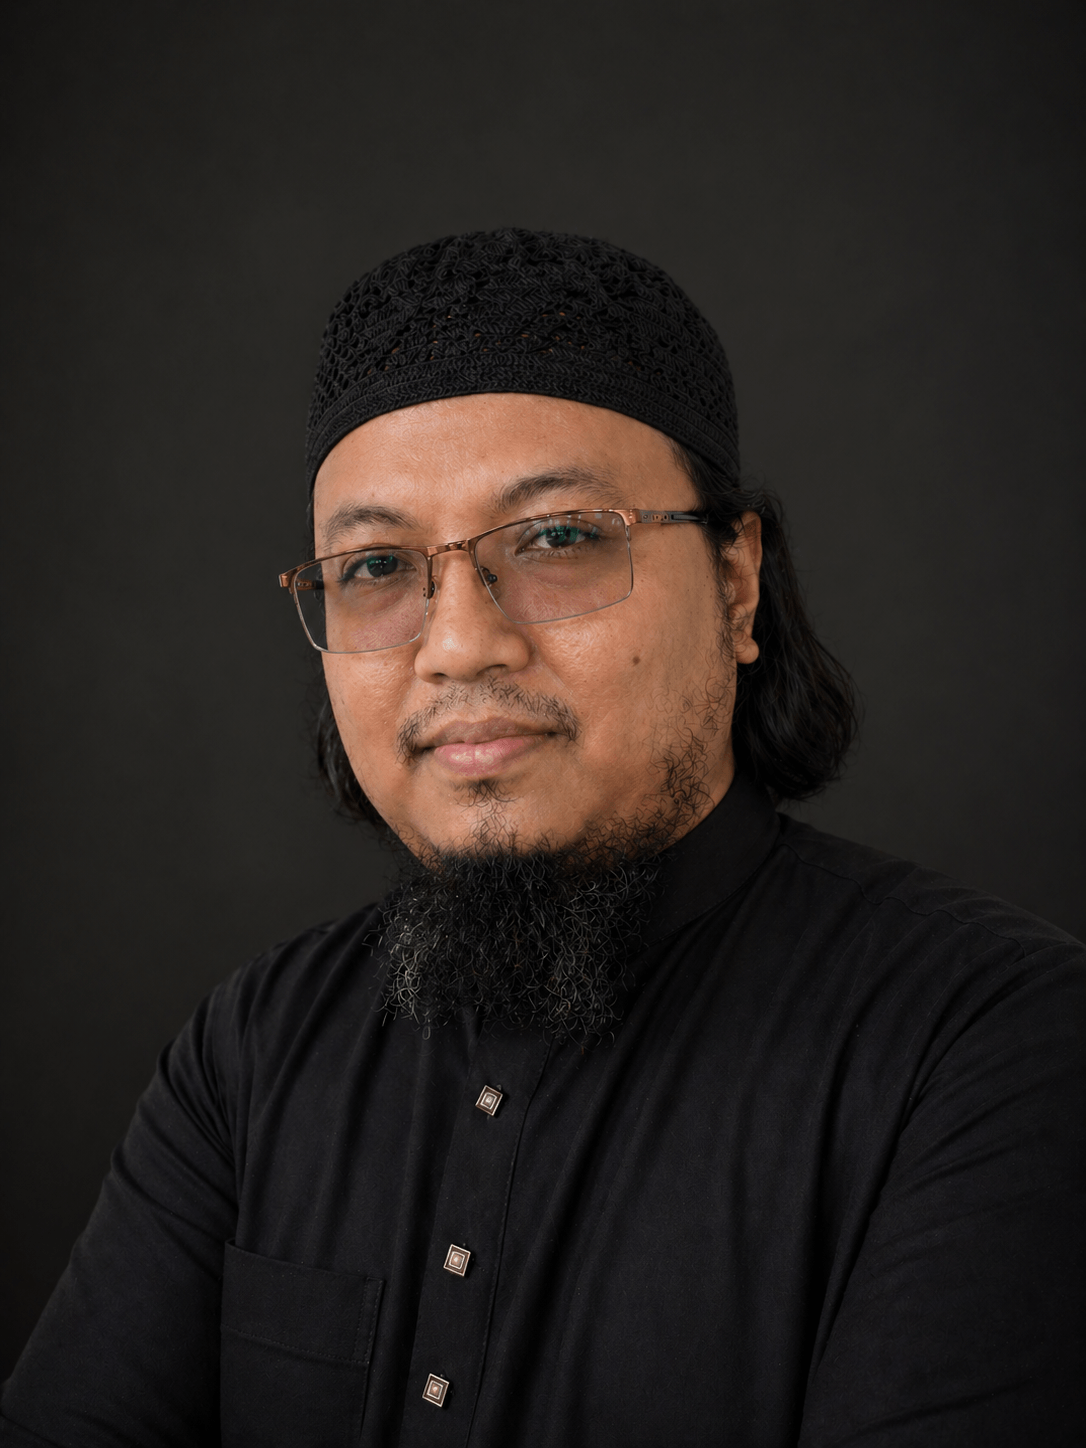
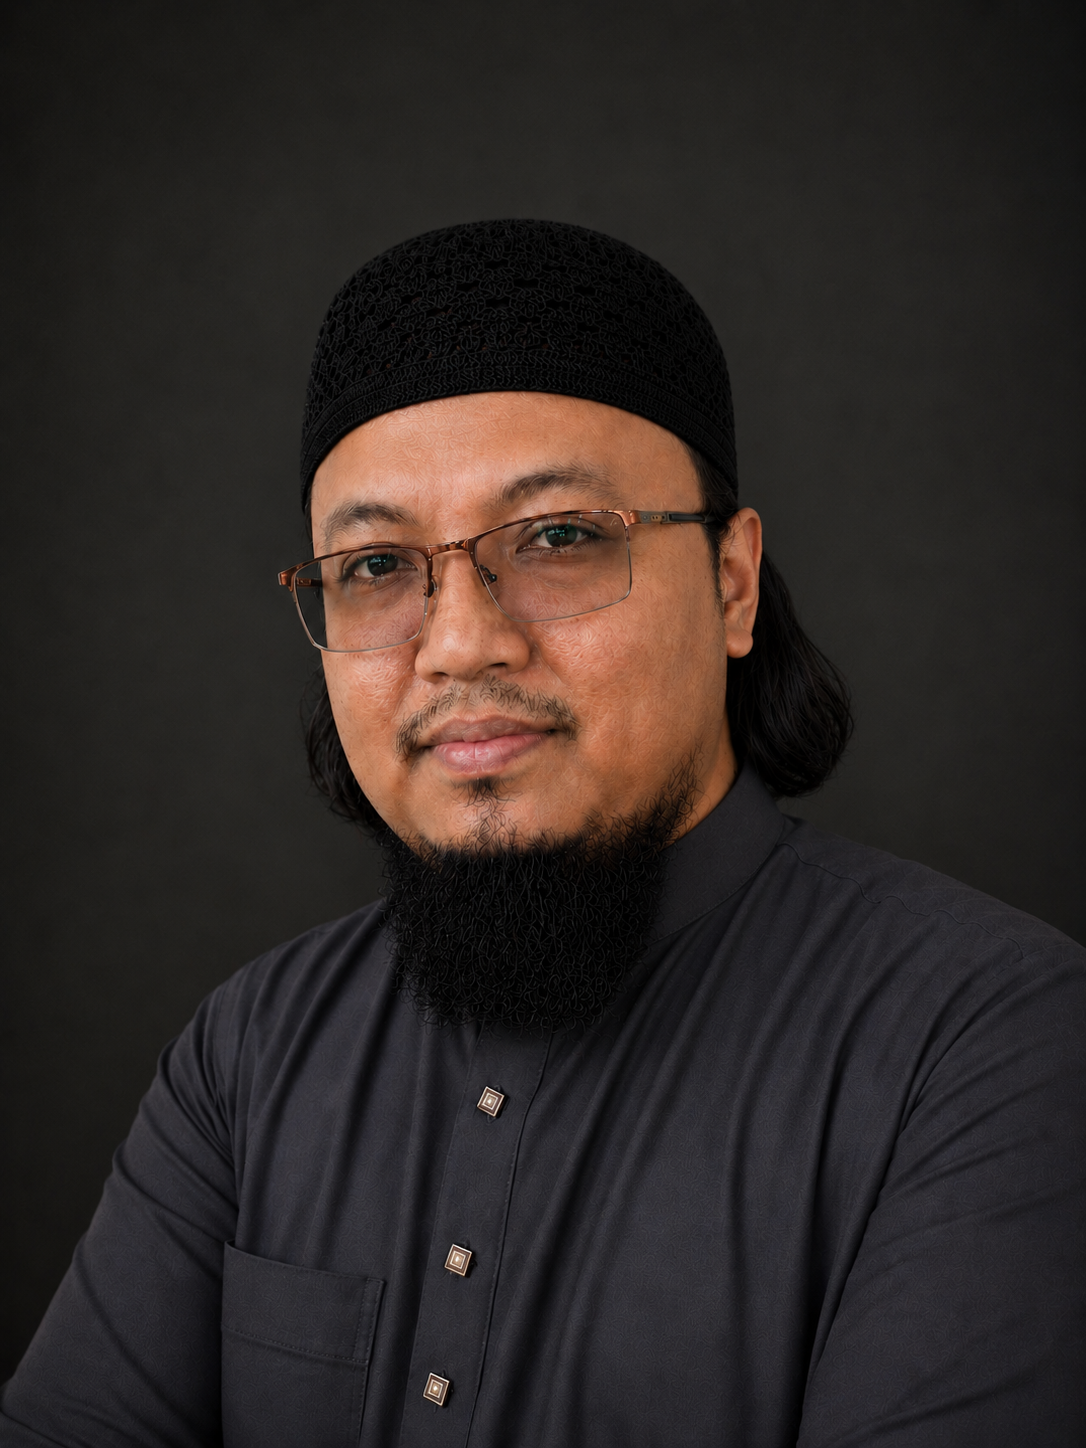
my image updated

Changed region(s): [[0.0, 0.2797, 1.0, 1.0], [0.2431, 0.1554, 0.5773, 0.4351], [0.2735, 0.4972, 0.3343, 0.5594]]

diff --git a/src/app/page.tsx b/src/app/page.tsx
@@ -1,5 +1,4 @@
 import Footer from "@/components/layout/Footer";
-import Navbar from "@/components/layout/Navbar";
 import About from "@/components/sections/About";
 import Contact from "@/components/sections/Contact";
 import Hero from "@/components/sections/Hero";
@@ -9,9 +8,10 @@ import Skills from "@/components/sections/Skills";
 import TechStack from "@/components/sections/TechStack";
 
 export default function HomePage() {
+
   return (
     <>
-      <Navbar />
+      {/* <Navbar /> */}
       <main>
         <Hero />
         <About />
@@ -20,6 +20,7 @@ export default function HomePage() {
         <Qualification />
         <Projects />
         <Contact />
+        
       </main>
       <Footer />
     </>